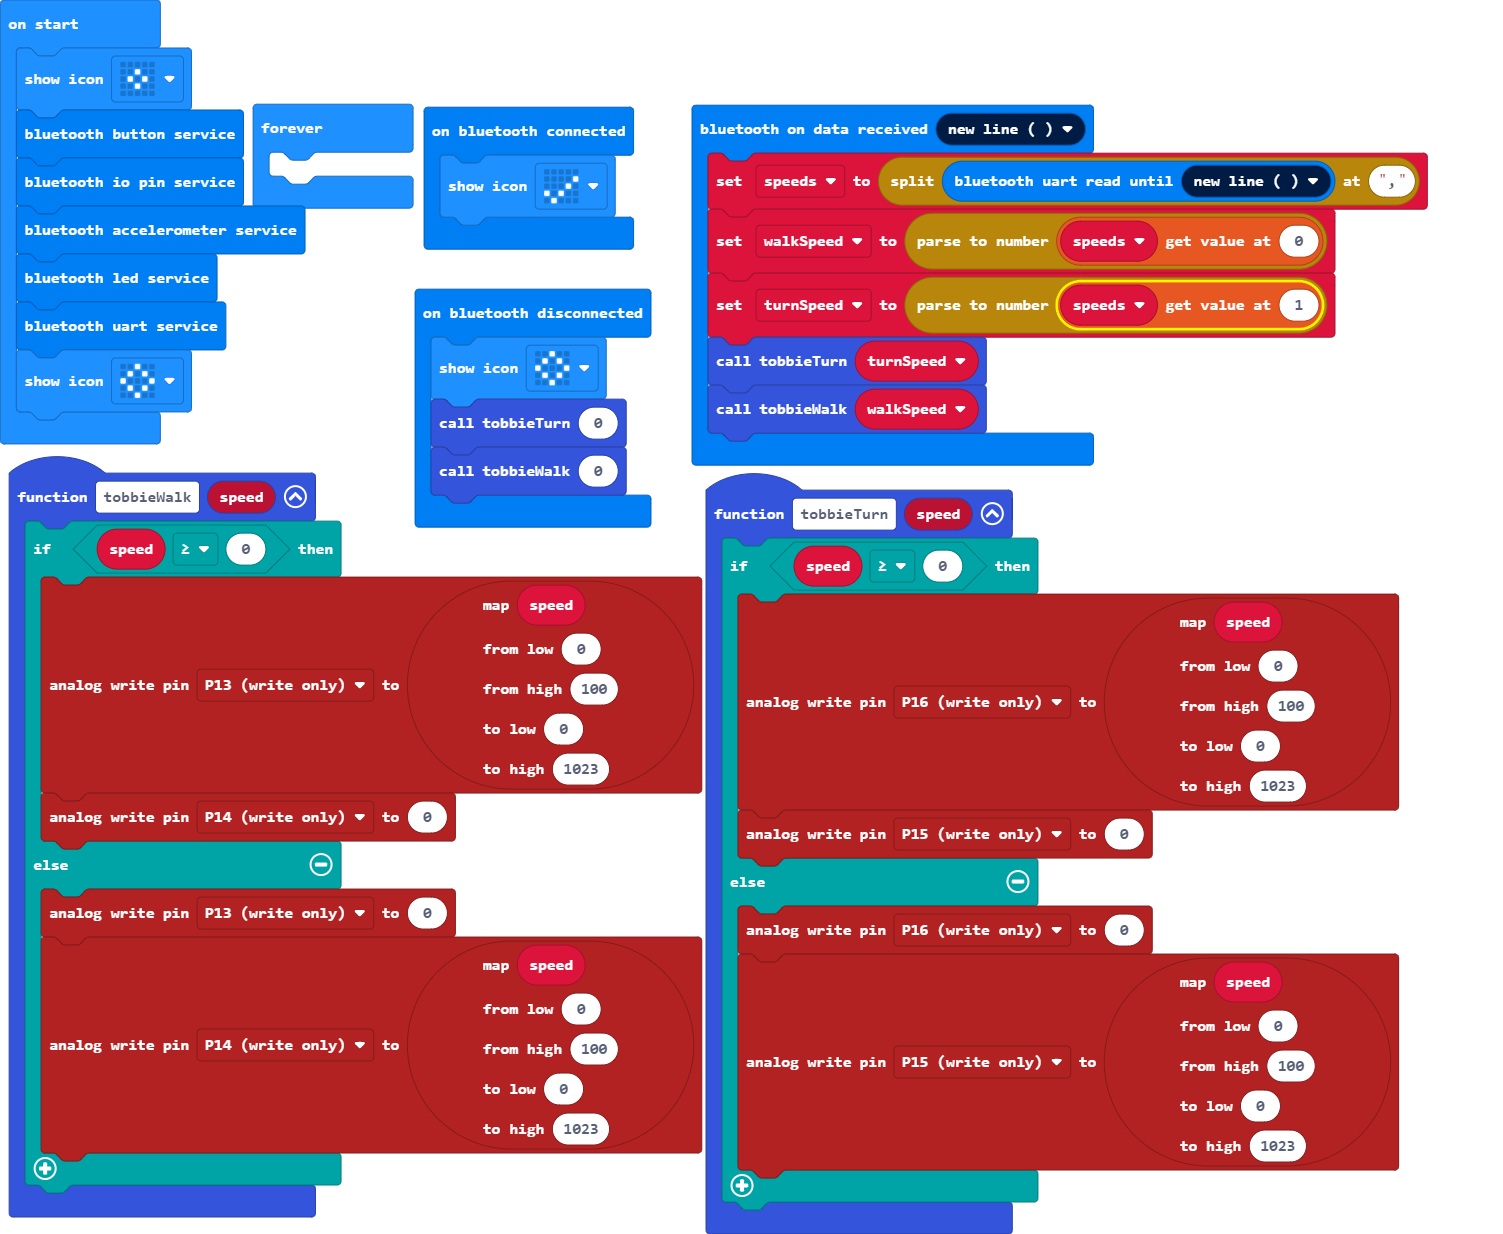
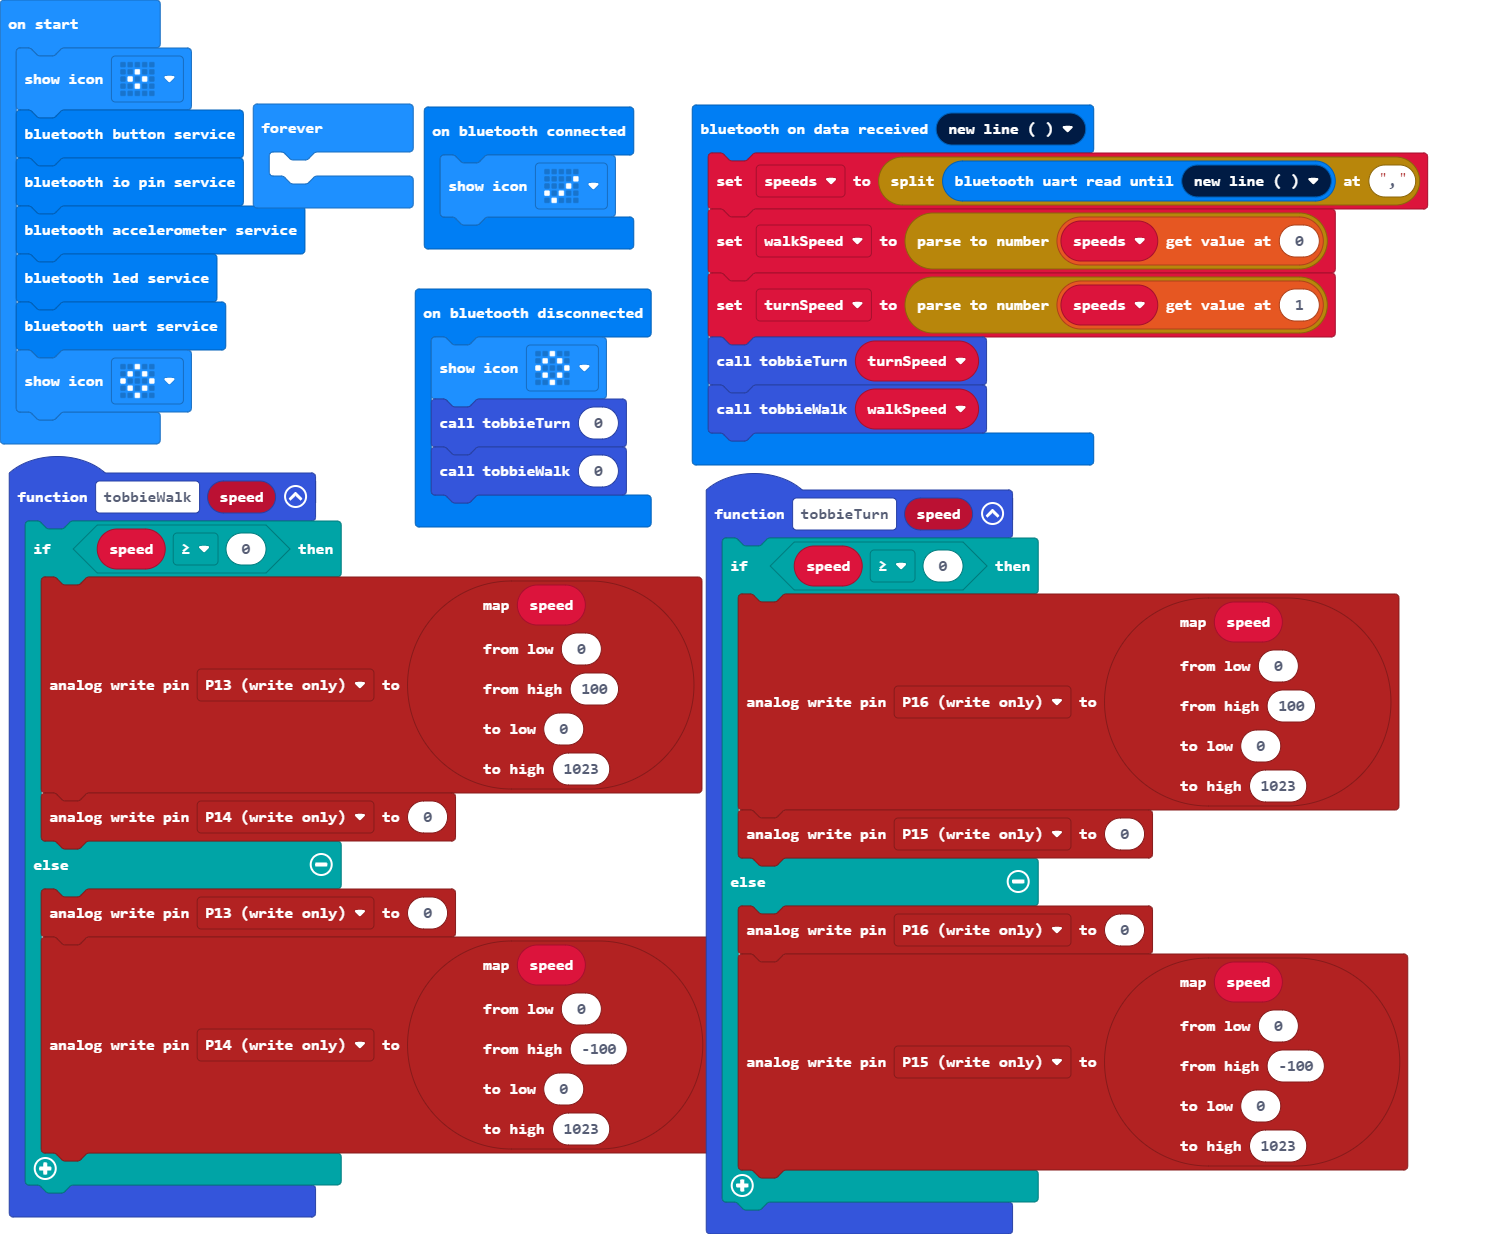
Update pxt.json, main.blocks, main.ts

diff --git a/main.ts b/main.ts
@@ -21,7 +21,7 @@ function tobbieTurn (speed: number) {
         pins.analogWritePin(AnalogPin.P15, pins.map(
         speed,
         0,
-        100,
+        -100,
         0,
         1023
         ))
@@ -49,7 +49,7 @@ function tobbieWalk (speed: number) {
         pins.analogWritePin(AnalogPin.P14, pins.map(
         speed,
         0,
-        100,
+        -100,
         0,
         1023
         ))
